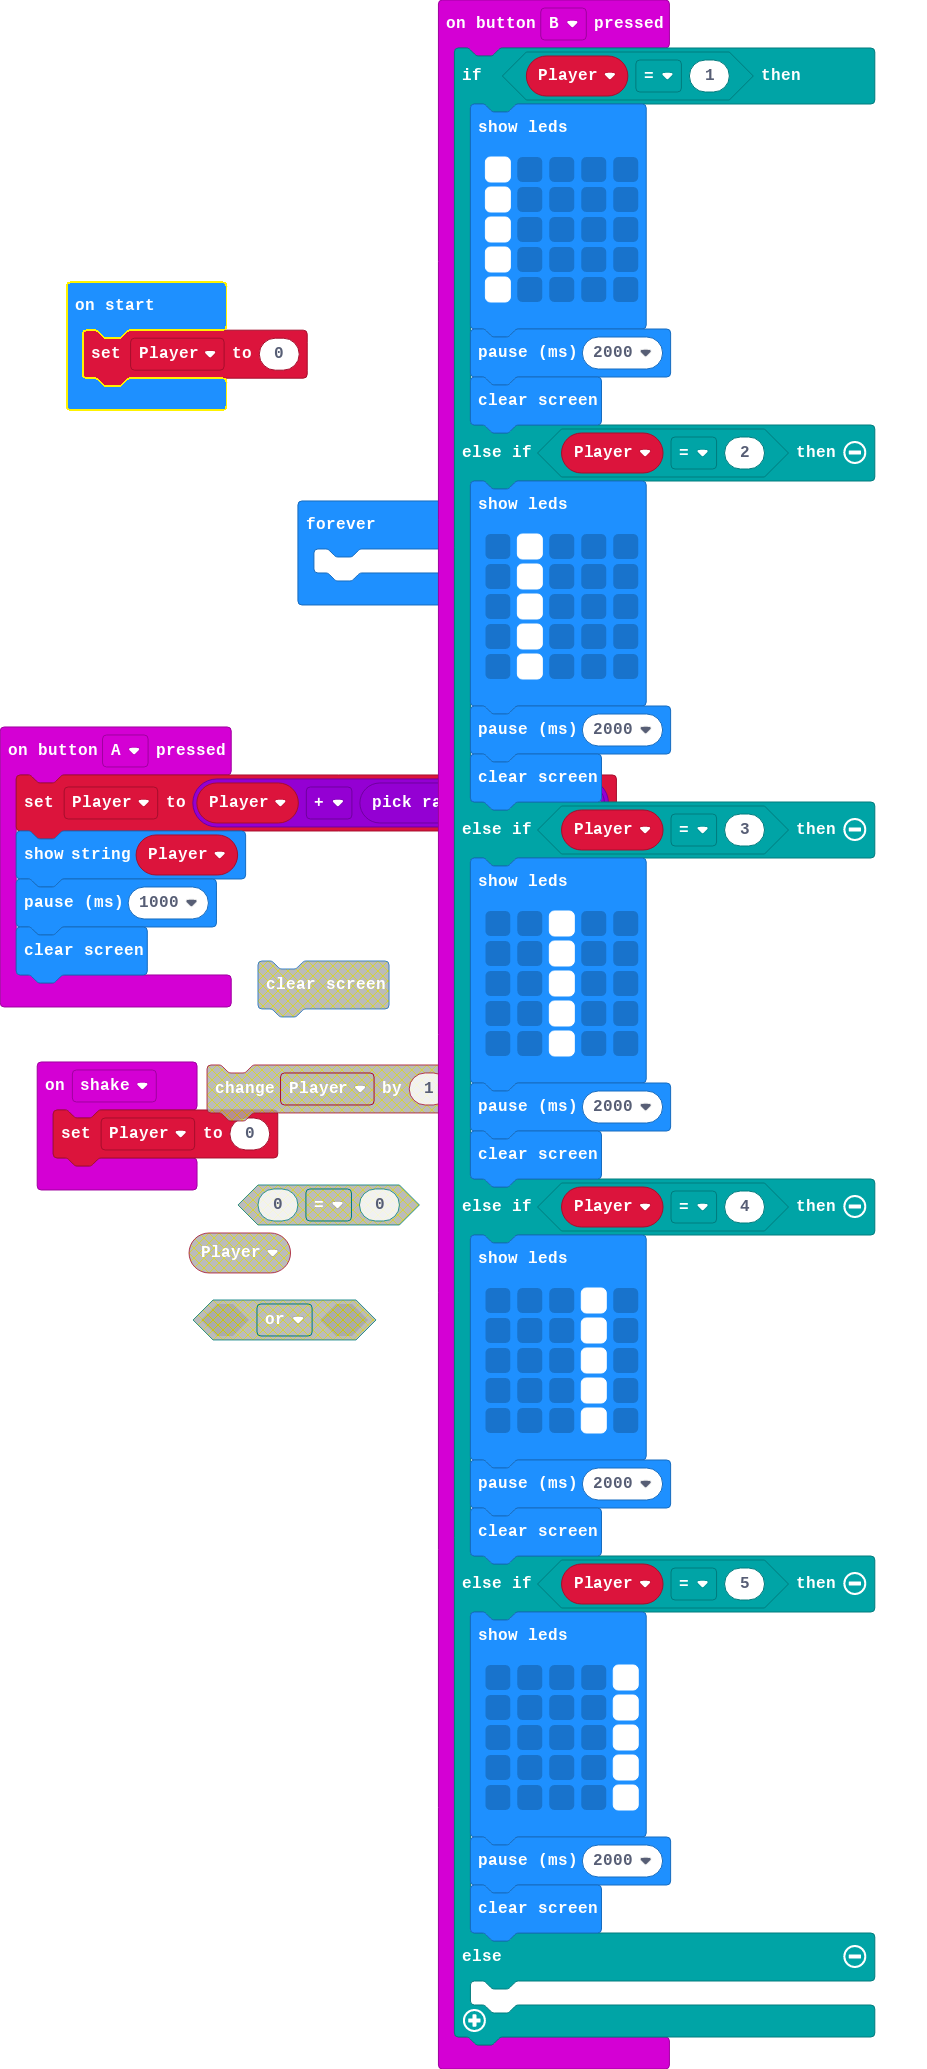
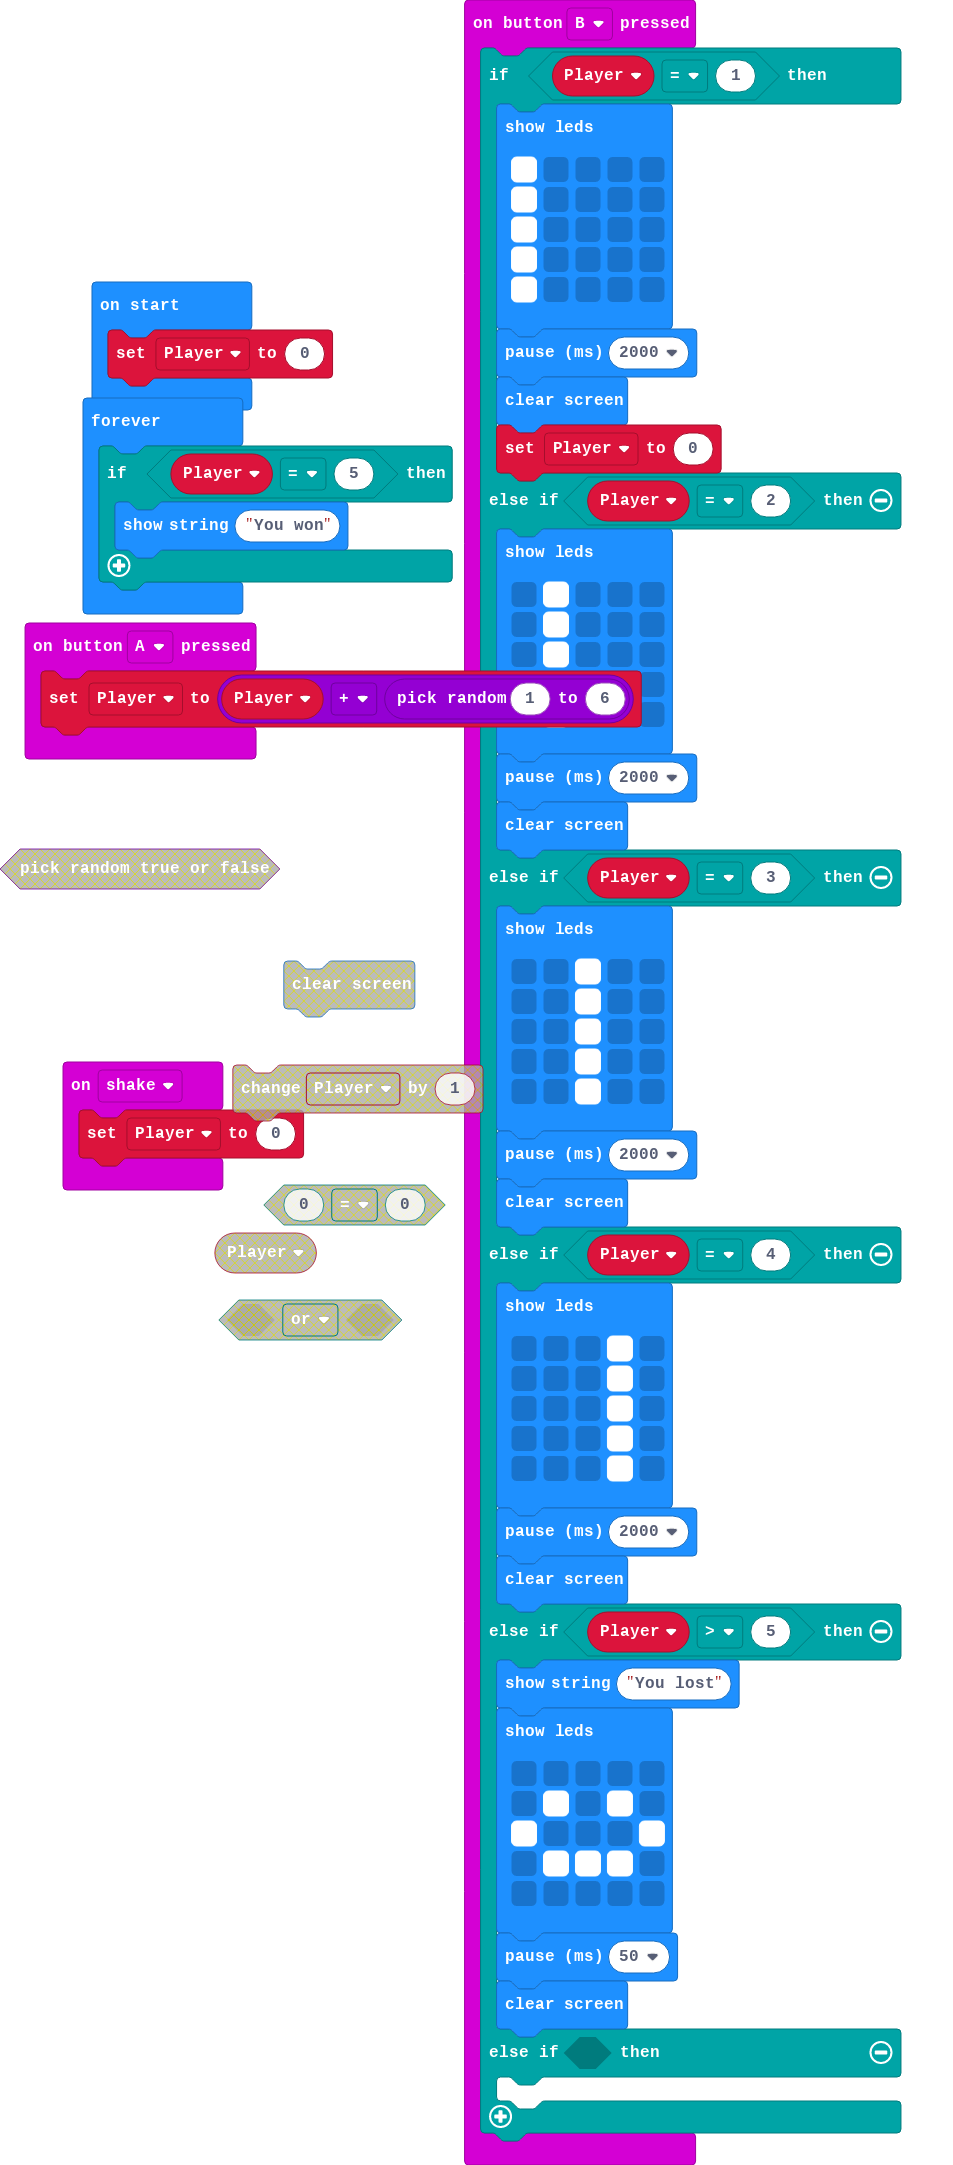
Update main.blocks, main.ts

diff --git a/main.ts b/main.ts
@@ -1,8 +1,5 @@
 input.onButtonPressed(Button.A, function () {
-    Player = Player + randint(1, 5)
-    basic.showString("" + (Player))
-    basic.pause(1000)
-    basic.clearScreen()
+    Player = Player + randint(1, 6)
 })
 input.onButtonPressed(Button.B, function () {
     if (Player == 1) {
@@ -15,6 +12,7 @@ input.onButtonPressed(Button.B, function () {
             `)
         basic.pause(2000)
         basic.clearScreen()
+        Player = 0
     } else if (Player == 2) {
         basic.showLeds(`
             . # . . .
@@ -45,17 +43,18 @@ input.onButtonPressed(Button.B, function () {
             `)
         basic.pause(2000)
         basic.clearScreen()
-    } else if (Player == 5) {
+    } else if (Player > 5) {
+        basic.showString("You lost")
         basic.showLeds(`
-            . . . . #
-            . . . . #
-            . . . . #
-            . . . . #
-            . . . . #
+            . . . . .
+            . # . # .
+            # . . . #
+            . # # # .
+            . . . . .
             `)
-        basic.pause(2000)
+        basic.pause(50)
         basic.clearScreen()
-    } else {
+    } else if (false) {
     	
     }
 })
@@ -65,5 +64,7 @@ input.onGesture(Gesture.Shake, function () {
 let Player = 0
 Player = 0
 basic.forever(function () {
-	
+    if (Player == 5) {
+        basic.showString("You won")
+    }
 })
